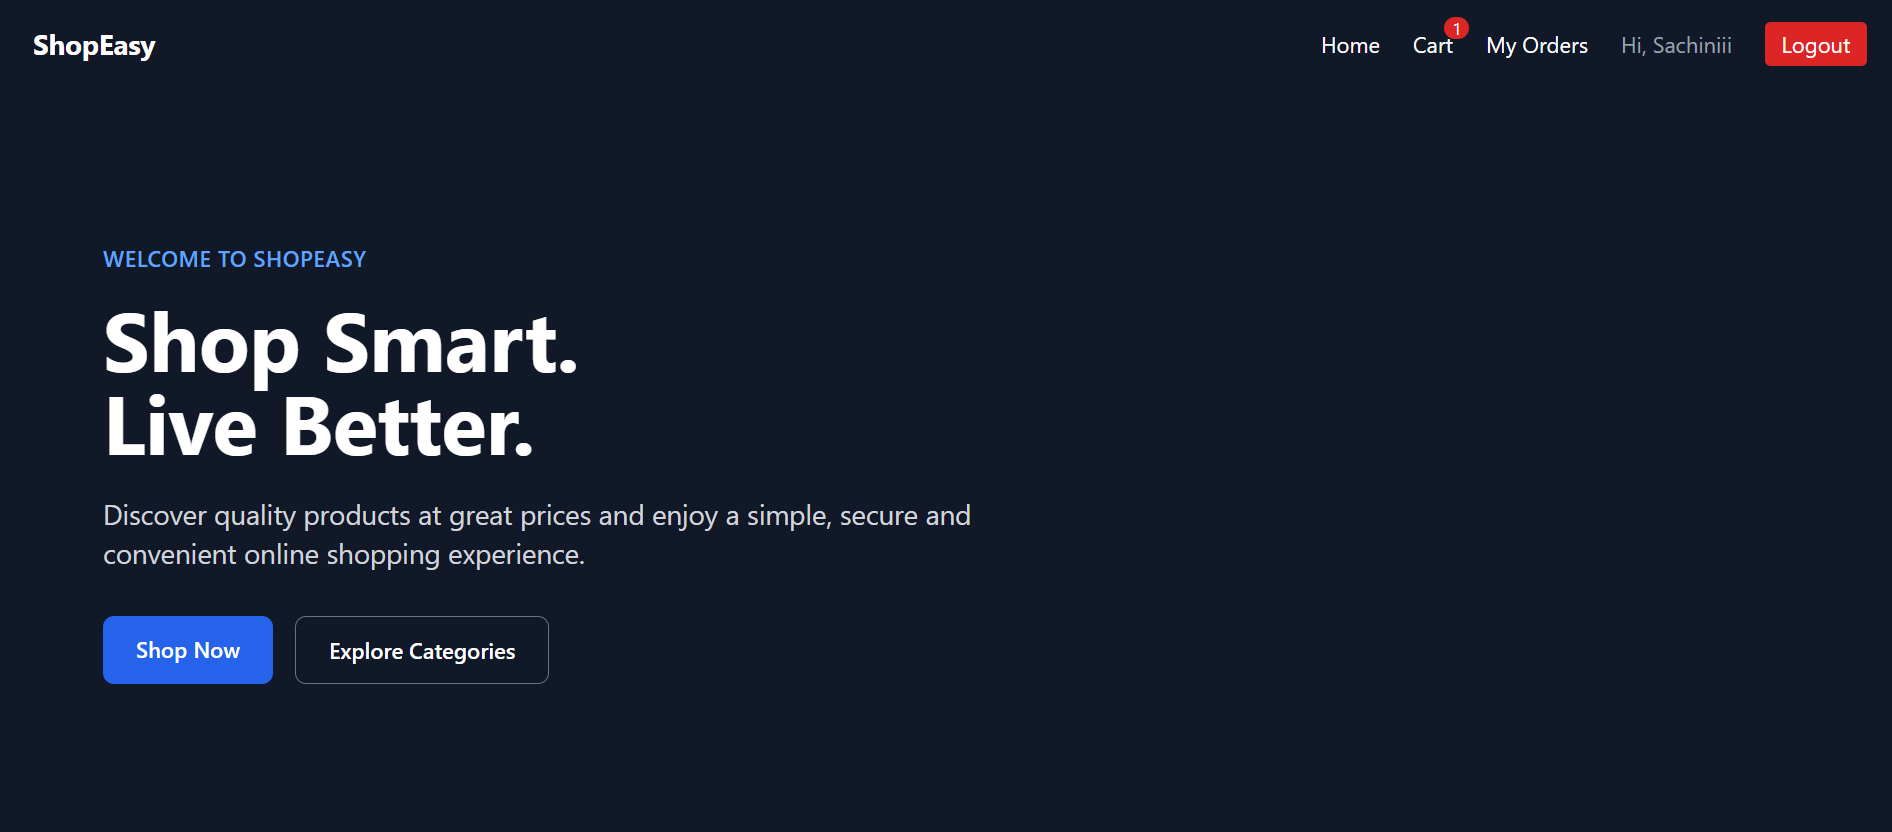
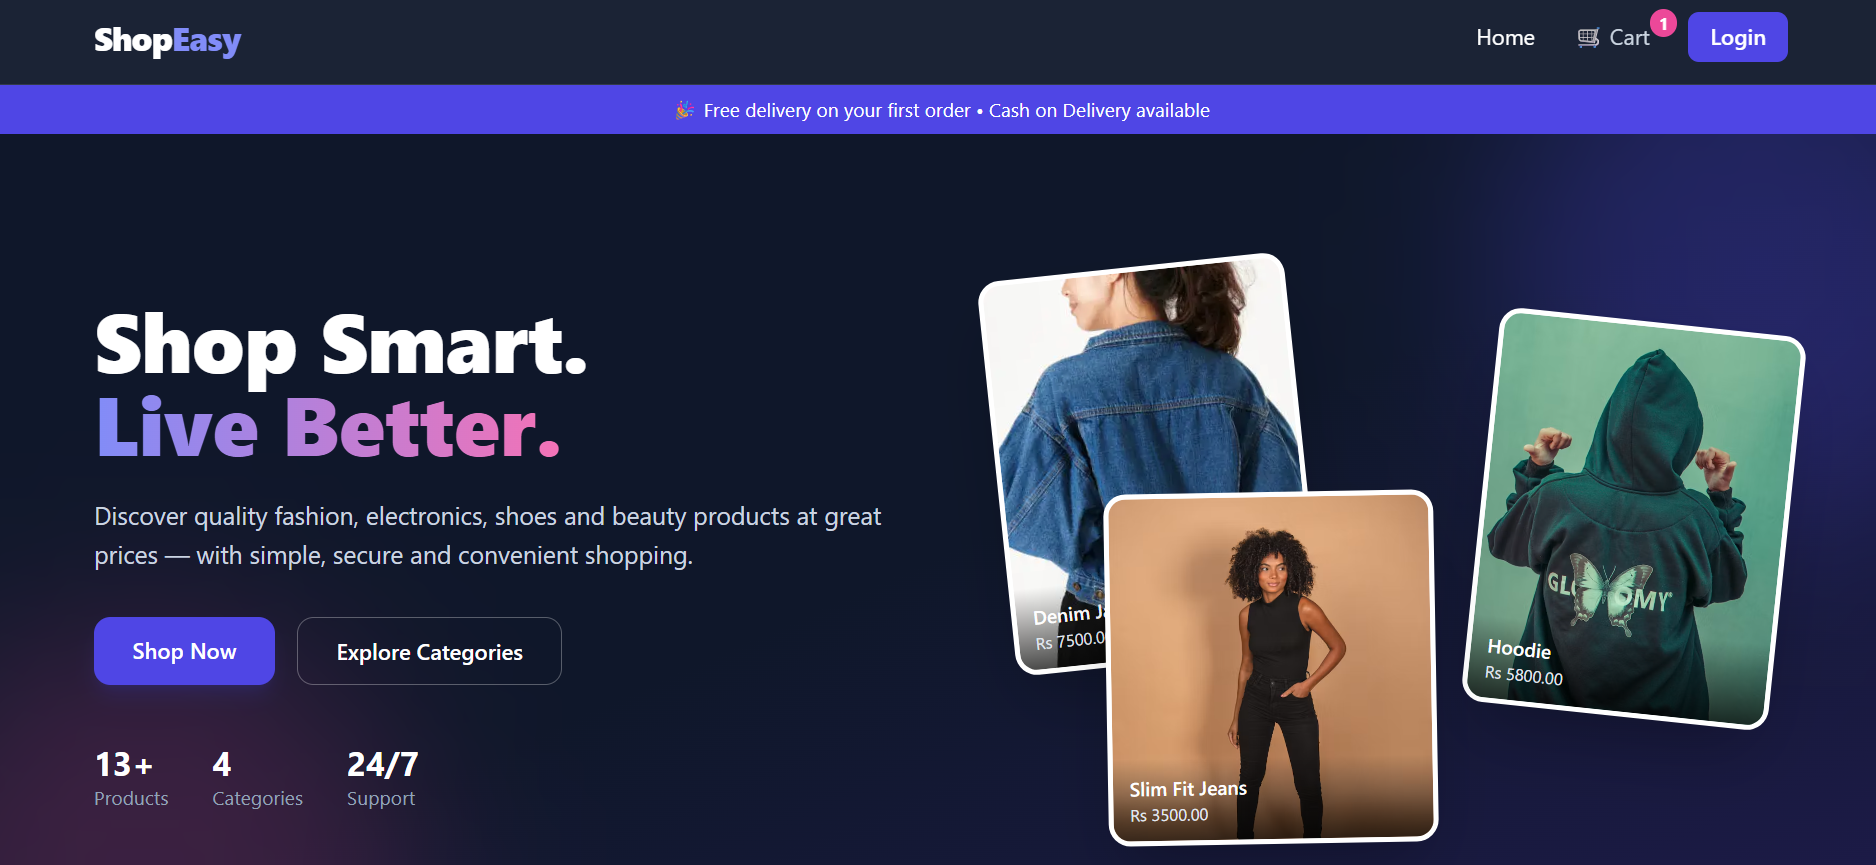
Skill Image

diff --git a/index.html b/index.html
@@ -10,6 +10,7 @@
 <link href="https://fonts.googleapis.com/css2?family=Plus+Jakarta+Sans:wght@500;600;700;800&family=Inter:wght@400;500;600&family=JetBrains+Mono:wght@500;600&display=swap" rel="stylesheet">
 <link rel="stylesheet" href="style.css">
 <link rel="stylesheet" href="https://cdnjs.cloudflare.com/ajax/libs/font-awesome/6.4.0/css/all.min.css">
+<link rel="stylesheet" href="https://cdn.jsdelivr.net/gh/devicons/devicon@v2.16.0/devicon.min.css">
 </head>
 <body>
 
@@ -228,54 +229,73 @@
     </div>
 
     <div class="skills-grid">
+
       <div class="skill-card">
-        <div class="skill-title">Frontend Development </div>
+        <div class="skill-title">Frontend Development</div>
         <div class="pill-row">
-          <span class="pill">HTML5</span><span class="pill">CSS3</span><span class="pill">JavaScript</span><span class="pill">React.js</span><span class="pill">Tailwind CSS</span><span class="pill">Next.js</span>
+          <span class="pill"><i class="devicon-html5-plain colored"></i>HTML5</span>
+          <span class="pill"><i class="devicon-css3-plain colored"></i>CSS3</span>
+          <span class="pill"><i class="devicon-javascript-plain colored"></i>JavaScript</span>
+          <span class="pill"><i class="devicon-react-original colored"></i>React.js</span>
+          <span class="pill"><i class="devicon-tailwindcss-original colored"></i>Tailwind CSS</span>
+          <span class="pill"><i class="devicon-nextjs-plain icon-white"></i>Next.js</span>
         </div>
       </div>
+    
       <div class="skill-card">
         <div class="skill-title">Backend Development</div>
         <div class="pill-row">
-          <span class="pill">Node.js</span><span class="pill">Spring Boot</span><span class="pill">REST APIs</span>
+          <span class="pill"><i class="devicon-nodejs-plain colored"></i>Node.js</span>
+          <span class="pill"><i class="devicon-spring-plain colored"></i>Spring Boot</span>
+          <span class="pill"><i class="fa-solid fa-terminal icon-blue"></i>REST APIs</span>
         </div>
       </div>
+    
       <div class="skill-card">
         <div class="skill-title">Databases Technologies</div>
         <div class="pill-row">
-          <span class="pill">MySQL</span><span class="pill">PostgreSQL</span>
+          <span class="pill"><i class="devicon-mysql-plain colored"></i>MySQL</span>
+          <span class="pill"><i class="devicon-postgresql-plain colored"></i>PostgreSQL</span>
         </div>
       </div>
-
+    
       <div class="skill-card">
         <div class="skill-title">Programming Languages</div>
         <div class="pill-row">
-          <span class="pill">Java</span><span class="pill">python</span>
+          <span class="pill"><i class="devicon-java-plain colored"></i>Java</span>
+          <span class="pill"><i class="devicon-python-plain colored"></i>Python</span>
         </div>
       </div>
-
+    
       <div class="skill-card">
         <div class="skill-title">Mobile Development</div>
         <div class="pill-row">
-          <span class="pill">React Native</span><span class="pill">Dart</span><span class="pill">Flutter</span>
+          <span class="pill"><i class="devicon-react-original colored"></i>React Native</span>
+          <span class="pill"><i class="devicon-dart-plain colored"></i>Dart</span>
+          <span class="pill"><i class="devicon-flutter-plain colored"></i>Flutter</span>
         </div>
       </div>
-
-        <div class="skill-card">
-          <div class="skill-title">UI/UX and Design</div>
-          <div class="pill-row">
-            <span class="pill">Figma</span><span class="pill">Canva</span><span class="pill">Responsive Web Design</span>
-          </div>
+    
+      <div class="skill-card">
+        <div class="skill-title">UI/UX and Design</div>
+        <div class="pill-row">
+          <span class="pill"><i class="devicon-figma-plain colored"></i>Figma</span>
+          <span class="pill"><i class="devicon-canva-original colored"></i>Canva</span>
+          <span class="pill"><i class="fa-solid fa-mobile-screen-button icon-blue"></i>Responsive Web Design</span>
         </div>
-
+      </div>
+    
       <div class="skill-card">
         <div class="skill-title">Development Tools & Technologies</div>
         <div class="pill-row">
-          <span class="pill">Git</span><span class="pill">GitHub</span><span class="pill">VS Code</span><span class="pill">Android Studio</span><span class="pill">Figma</span>
+          <span class="pill"><i class="devicon-git-plain colored"></i>Git</span>
+          <span class="pill"><i class="devicon-github-original icon-white"></i>GitHub</span>
+          <span class="pill"><i class="devicon-vscode-plain colored"></i>VS Code</span>
+          <span class="pill"><i class="devicon-androidstudio-plain colored"></i>Android Studio</span>
+          <span class="pill"><i class="devicon-figma-plain colored"></i>Figma</span>
         </div>
       </div>
-      
-      </div>
+    
     </div>
   </div>
 </section>
@@ -331,7 +351,7 @@
           <img src="./assets/Bloom.png.png" alt="Candy World preview" loading="lazy">
         </div>
         <div class="pc-body">
-          <div class="pc-cat">Full-Stack Web Development </div>
+          <div class="pc-cat">Frontend Web Development </div>
           <h3 class="pc-title">Bloom Responsive Flower Shop Website</h3>
           <p class="pc-desc">Designed and developed a responsive flower shop website using HTML5 and CSS3, including a navigation bar, hero section, product cards, customer reviews, contact form, and mobile-friendly layouts.</p>
           <div class="pc-stack">
@@ -364,6 +384,24 @@
 
       <article class="pc-card">
         <div class="pc-thumb">
+          <img src="./assets/Notes.png.png" alt="Candy World preview" loading="lazy">
+        </div>
+        <div class="pc-body">
+          <div class="pc-cat">Frontend Development </div>
+          <h3 class="pc-title">Notes Web Application</h3>
+          <p class="pc-desc">A clean and interactive web-based note-taking application designed to create, edit, delete, and organize daily thoughts.</p>
+          <div class="pc-stack">
+            <span>HTML</span><span>CSS</span><span>JavaScript</span>
+          </div>
+          <div class="pc-actions">
+            <a href="https://github.com/Smadara/shopeasy-ecommerce-app" target="_blank" class="pc-repo">Respotiory <i class="fa-solid fa-arrow-right"></i></a>
+            <a href="https://shopeasy-ecommerce-app-indol.vercel.app/" target="_blank" class="pc-demo">Live Demo ↗</a>
+          </div>
+        </div>
+      </article>
+
+      <article class="pc-card">
+        <div class="pc-thumb">
           <img src="./assets/Travel.png.png" alt="Candy World preview" loading="lazy">
         </div>
         <div class="pc-body">
@@ -380,21 +418,7 @@
         </div>
       </article>
 
-      <article class="pc-card">
-       
-        <div class="pc-body">
-          <div class="pc-cat">Frontend Development </div>
-          <h3 class="pc-title">Notes Web Application</h3>
-          <p class="pc-desc">A clean and interactive web-based note-taking application designed to create, edit, delete, and organize daily thoughts.</p>
-          <div class="pc-stack">
-            <span>HTML</span><span>CSS</span><span>JavaScript</span>
-          </div>
-          <div class="pc-actions">
-            <a href="https://github.com/Smadara/shopeasy-ecommerce-app" target="_blank" class="pc-repo">Respotiory <i class="fa-solid fa-arrow-right"></i></a>
-            <a href="https://shopeasy-ecommerce-app-indol.vercel.app/" target="_blank" class="pc-demo">Live Demo ↗</a>
-          </div>
-        </div>
-      </article>
+      
 
       <article class="pc-card">
       

diff --git a/style.css b/style.css
@@ -553,7 +553,7 @@ section{
   transform:translateY(-3px); 
 }
 .skill-title{ 
-  font-size:16px; 
+  font-size:20px; 
   font-weight:700; 
   color:#fff; 
   margin-bottom:14px;
@@ -562,15 +562,31 @@ section{
   display:flex; 
   flex-wrap:wrap;
    gap:8px; }
+
 .pill{
-  font-size:13px; 
-  font-weight:500;
-  padding:6px 13px;
-   border-radius:999px;
-  border:1px solid var(--border);
-  color:var(--text-soft); 
-  background:var(--bg-soft);
+    display:inline-flex;
+    align-items:center;
+    gap:8px;
+    font-size:12px;
+    font-weight:550;
+    padding:7px 14px;
+    border-radius:10px;
+    border:1px solid var(--border);
+    color:#e6e9f2;
+    background:var(--bg-soft);
+    transition:transform .2s ease, border-color .2s ease;
 }
+
+.pill:hover{
+  border-color:var(--accent);
+  transform:translateY(-2px);
+}
+.pill i{
+  font-size:15px;
+  line-height:1;
+}
+.icon-white{ color:#fff; }
+.icon-blue{ color:var(--accent2); }
 
 
 
